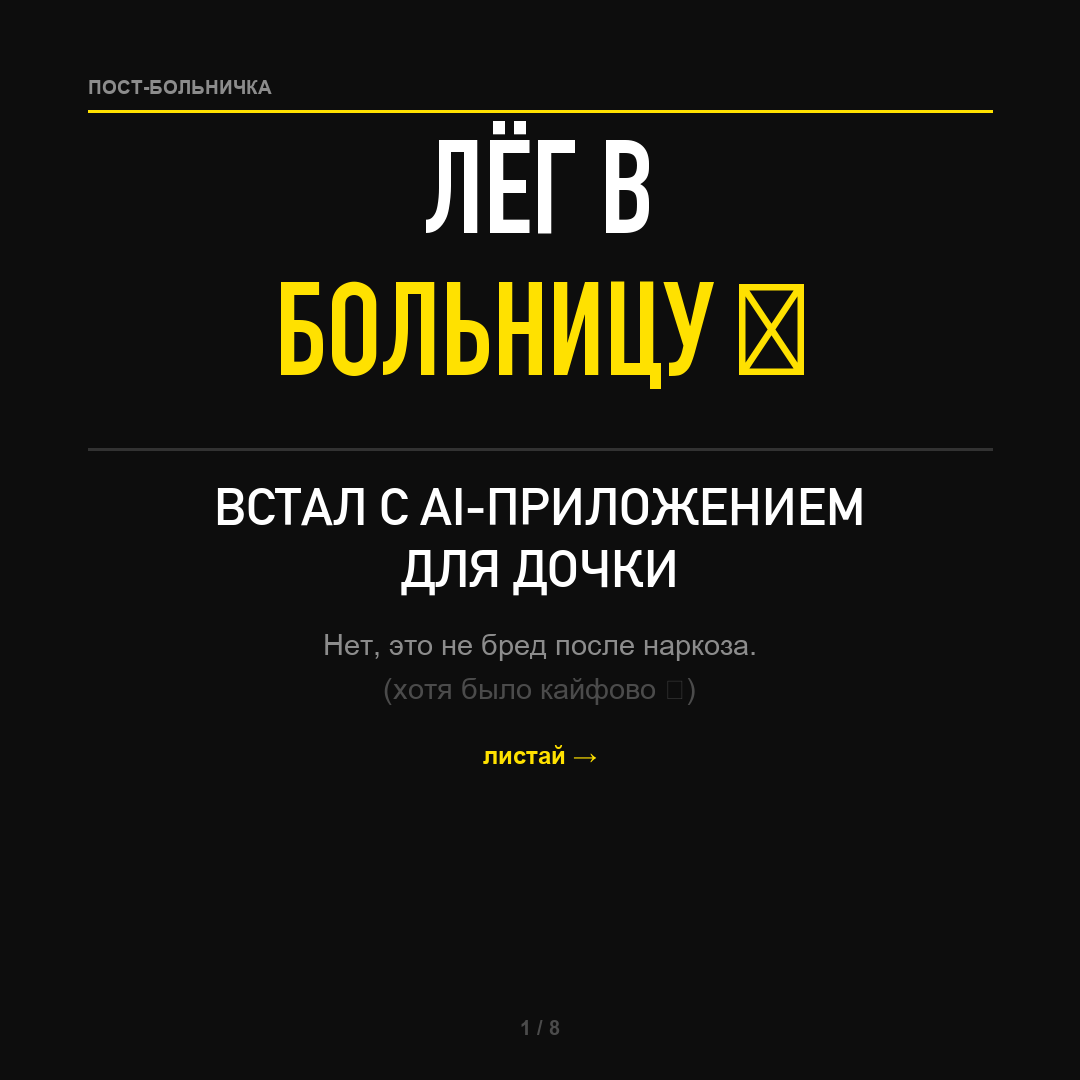
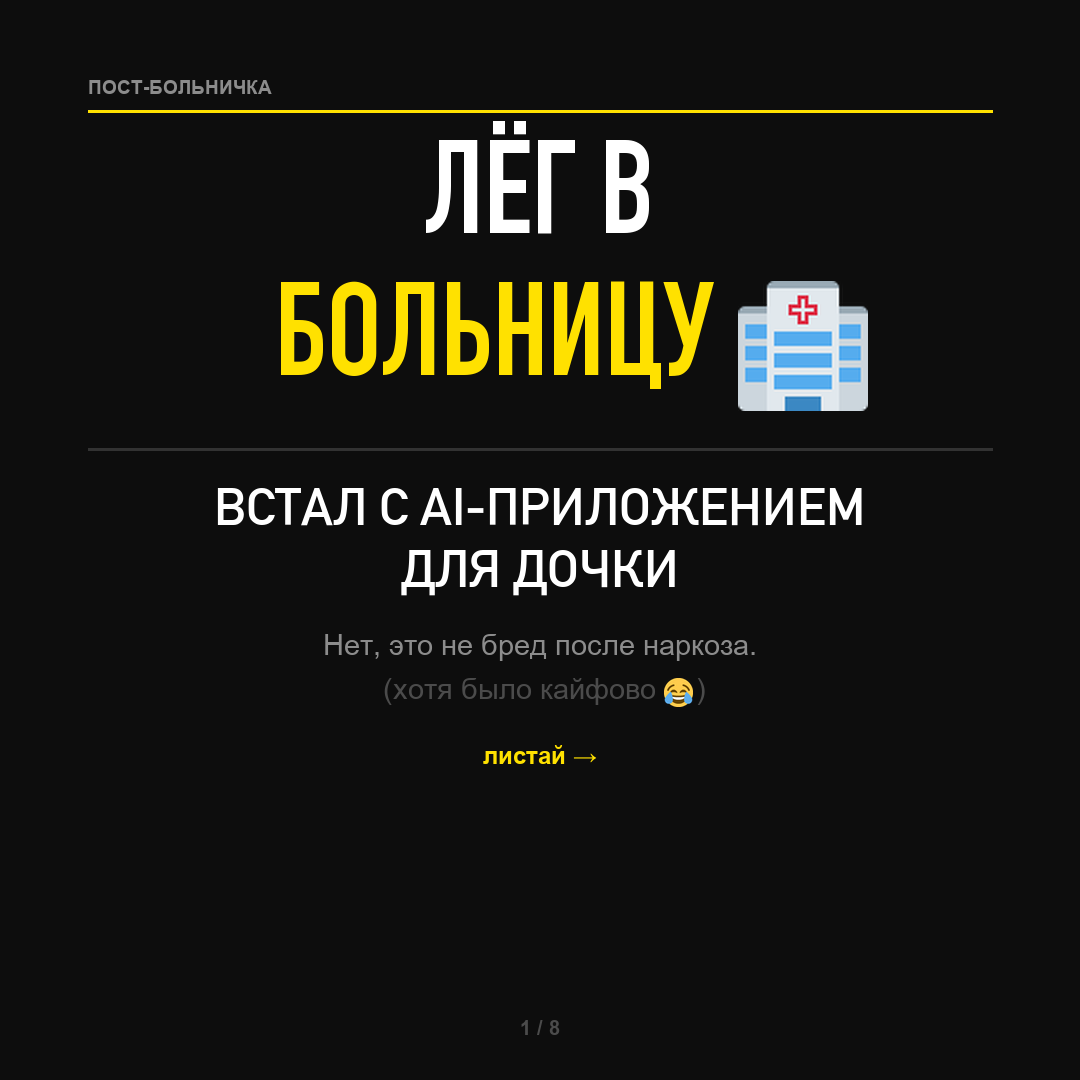
auto-sync 2026-05-23 14:31

Changed region(s): [[0.6722, 0.2444, 0.825, 0.3972], [0.6111, 0.6111, 0.6417, 0.6722]]

diff --git a/marketing/cards/cards v2/generate_v2.py b/marketing/cards/cards v2/generate_v2.py
@@ -126,7 +126,7 @@ def card_01():
     hline(draw, 110)
 
     draw_centered(draw, "ЛЁГ В", 140, big(130), WHITE)
-    draw_centered(draw, "БОЛЬНИЦУ 🏥", 282, big(130), YELLOW)
+    draw_centered_emoji(img, draw, "БОЛЬНИЦУ 🏥", 282, big(130), YELLOW)
 
     hline(draw, 448, color=(50, 50, 50))
 
@@ -136,7 +136,7 @@ def card_01():
 
     fo_b = body(29)
     draw_centered(draw, "Нет, это не бред после наркоза.", 628, fo_b, GREY)
-    draw_centered(draw, "(хотя было кайфово 😂)", 672, fo_b, DIM)
+    draw_centered_emoji(img, draw, "(хотя было кайфово 😂)", 672, fo_b, DIM)
 
     fo_hint = bold(24)
     draw_centered(draw, "листай →", 742, fo_hint, YELLOW)
